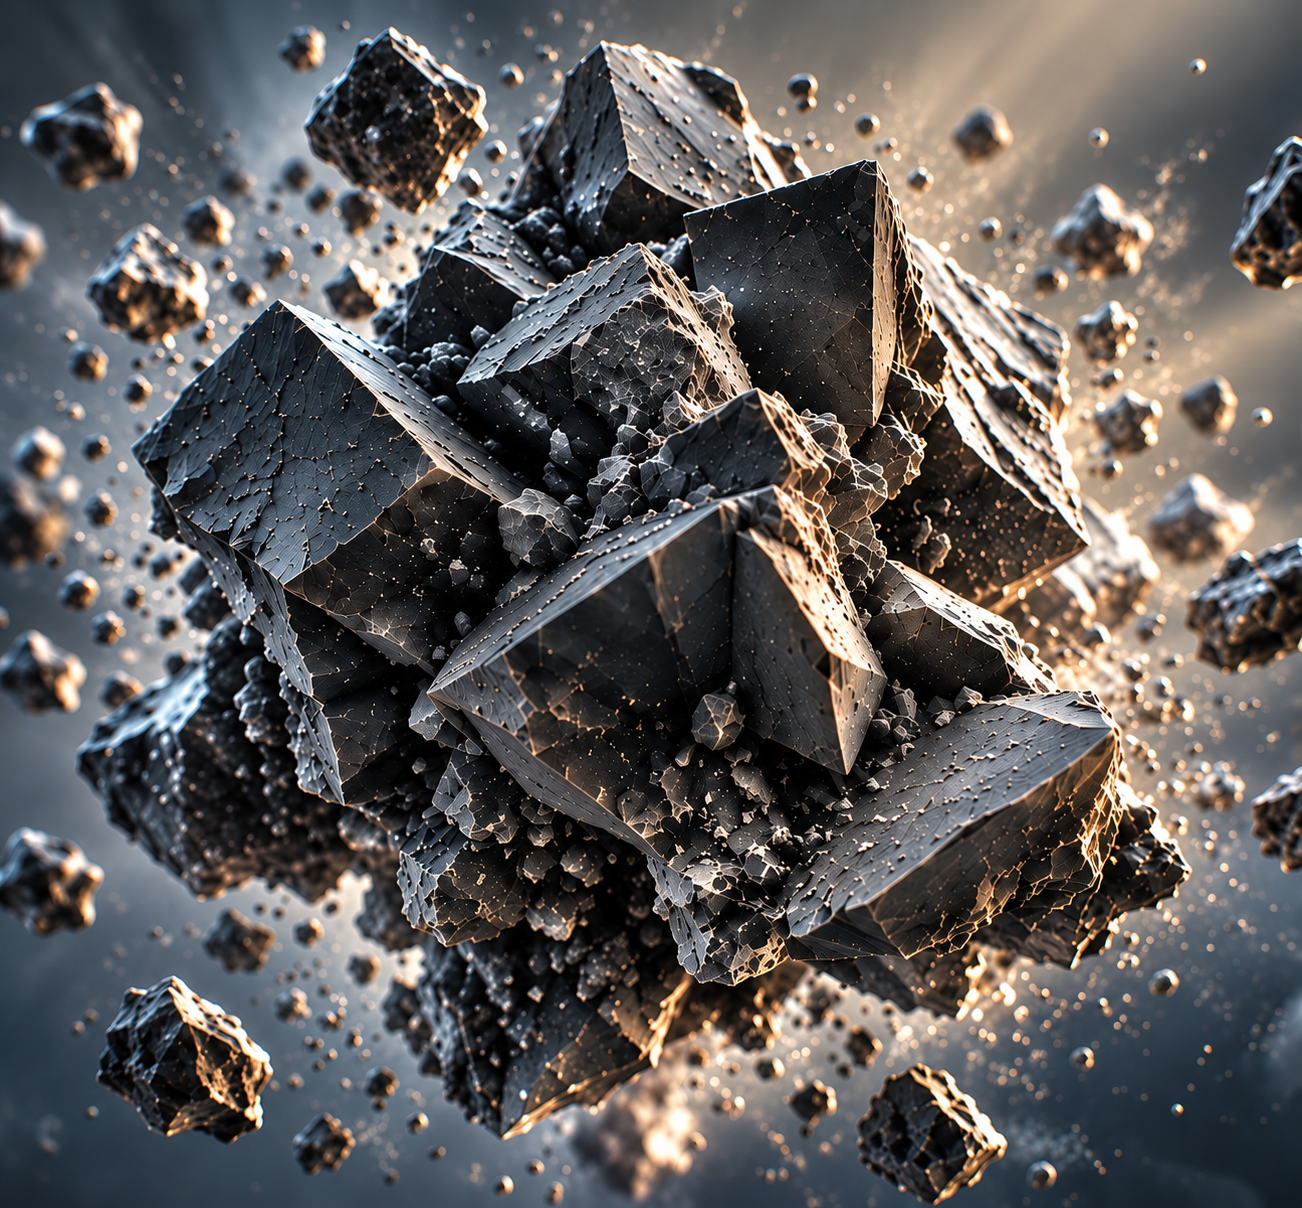
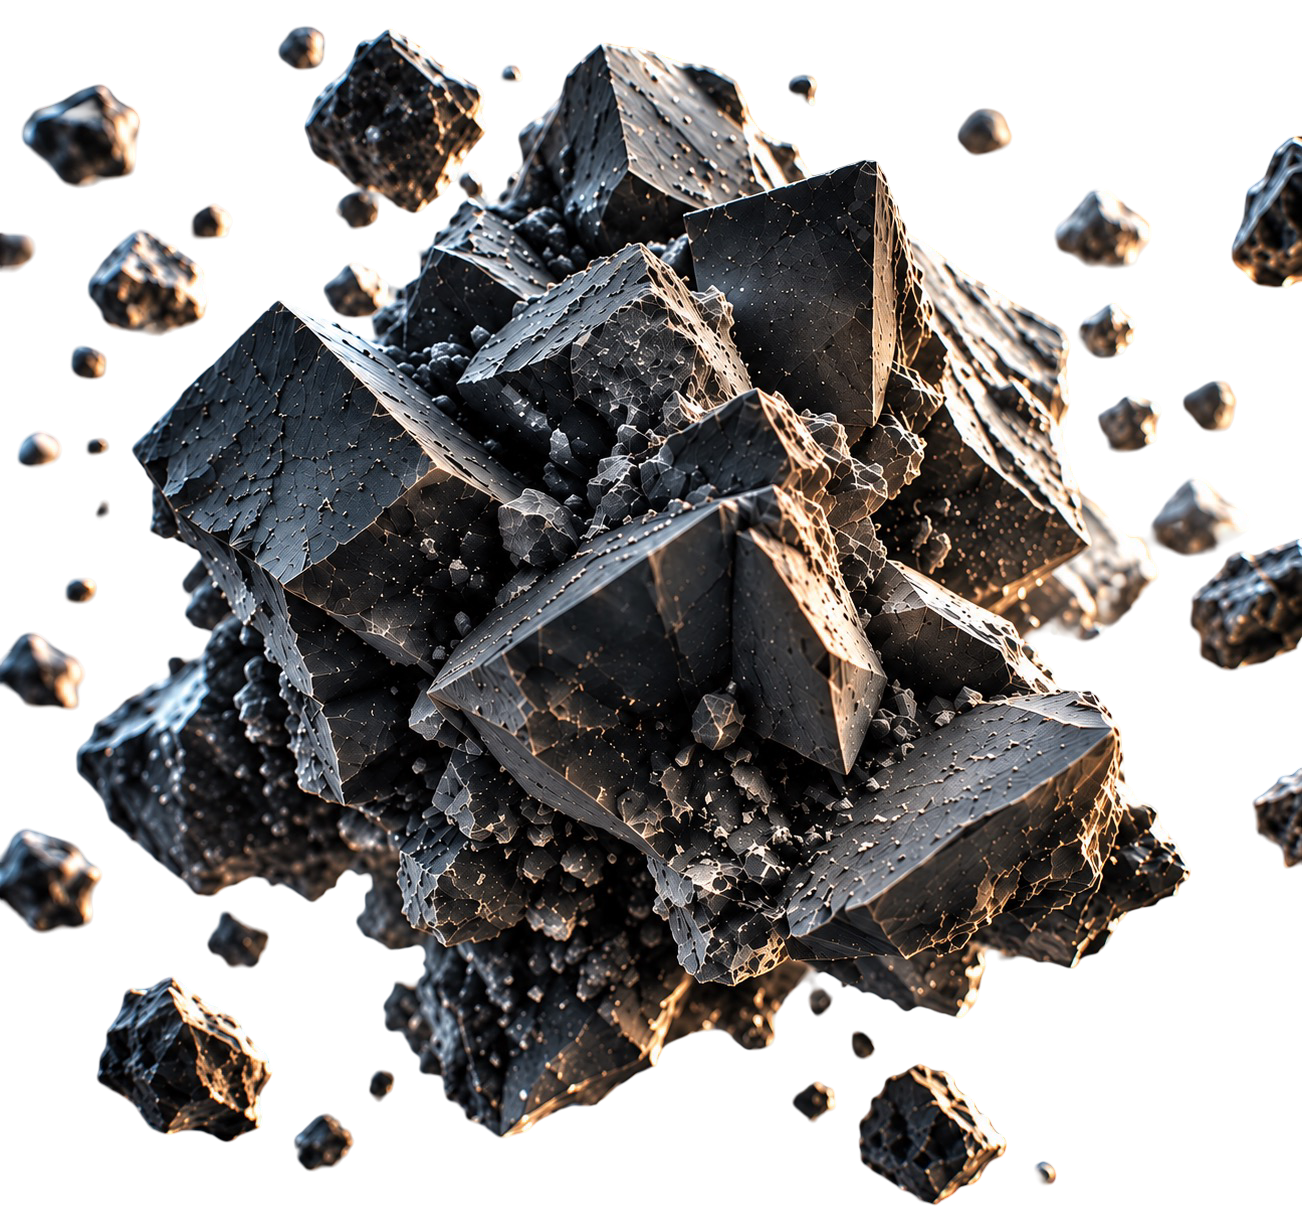
Restore silhouette particle system now that the texture has real alpha; rework hero atmosphere
home-material-crystal.png now ships as genuine RGBA (confirmed via PNG
IHDR: color type 6, ~42% transparent, ~6% soft edge) instead of the
alpha-less RGB file from the initial upload, pulled in from origin/main.

- Remove the CSS mask-image stopgap on the canvas — the shader's own
  alpha-discard cutout and sampleSilhouetteAnchors's edge detection do the
  real job now; verified live that both particle bands render.
- Strengthen the page background and glow to read as atmospheric now that
  the object sits on true transparency instead of a masked rectangle: add
  a diagonal warm light-leak layer to .home-page's background gradient and
  enlarge/brighten .home-page__glow, shifted toward the top-right corner to
  match Main Object.png's off-frame warm light source.
- Drop the now-stale "no alpha channel" comment on the silhouette cutoff
  constants.
- Update CLAUDE.md to reflect the asset's history (shipped without alpha,
  then fixed) and the current state of the particle system and atmosphere.

Claude-Session: https://claude.ai/code/session_01YBpenyrwyM537N8ZjKQNLn

diff --git a/src/pages/home-page.css b/src/pages/home-page.css
@@ -2,8 +2,9 @@
   --ink: #f2efe6;
   --muted: #97a0a6;
   background:
-    radial-gradient(circle at 72% 29%, rgba(255, 200, 135, 0.13) 0%, transparent 40%),
-    linear-gradient(165deg, #030405 0%, #07090c 48%, #0d1116 100%);
+    linear-gradient(128deg, transparent 38%, rgba(255, 196, 130, 0.09) 54%, transparent 74%),
+    radial-gradient(circle at 74% 24%, rgba(255, 202, 138, 0.28) 0%, rgba(255, 190, 120, 0.1) 34%, transparent 58%),
+    linear-gradient(165deg, #030405 0%, #07090c 46%, #0d1116 100%);
   color: var(--ink);
   min-height: 100svh;
   overflow: hidden;
@@ -21,15 +22,15 @@
 }
 
 .home-page__glow {
-  background: radial-gradient(circle, rgba(255, 197, 138, 0.22), transparent 62%);
-  filter: blur(2.5rem);
-  height: 46%;
+  background: radial-gradient(circle, rgba(255, 197, 138, 0.34), rgba(255, 197, 138, 0.09) 45%, transparent 68%);
+  filter: blur(3.2rem);
+  height: 58%;
   mix-blend-mode: screen;
   pointer-events: none;
   position: absolute;
-  right: 6%;
-  top: 4%;
-  width: 40%;
+  right: 2%;
+  top: -2%;
+  width: 46%;
   z-index: 1;
 }
 

diff --git a/src/experience/HomeMaterialField.tsx b/src/experience/HomeMaterialField.tsx
@@ -14,13 +14,9 @@ const CAMERA_INTRO_OFFSET = 2.6
 const DAMP_LAMBDA = 4
 
 // Cutout tuning for the silhouette plane/particle pipeline. Move
-// PLANE_ALPHA_DISCARD down / SILHOUETTE_ALPHA_MIN down if a real silhouette
+// PLANE_ALPHA_DISCARD down / SILHOUETTE_ALPHA_MIN down if the silhouette
 // texture shows a transparent fringe at its edge; move them up if the edge
-// looks eaten into the object. NOTE: home-material-crystal.png currently has
-// no alpha channel at all (confirmed 8-bit RGB) - every sampled alpha reads
-// as opaque, so the discard never fires and sampleSilhouetteAnchors finds no
-// edge anchors (see the CSS mask-image fallback in home-material-field.css
-// and the CLAUDE.md note on this).
+// looks eaten into the object.
 const PLANE_ALPHA_DISCARD = 0.03
 const SILHOUETTE_ALPHA_MIN = 140
 const SILHOUETTE_NEIGHBOR_MAX = 60

diff --git a/src/experience/home-material-field.css b/src/experience/home-material-field.css
@@ -1,17 +1,9 @@
 .home-material-field { height: 100%; pointer-events: none; width: 100%; }
 
-/*
- * home-material-crystal.png has no alpha channel (confirmed: 8-bit RGB), so
- * the shader's alpha-discard cutout never fires and the plane would
- * otherwise render as a hard-edged rectangle. This mask fades the canvas's
- * own rectangular edges into the page background as a stand-in for a real
- * silhouette cutout. Remove once the asset ships with genuine alpha.
- */
 .home-material-field canvas {
   display: block;
   filter: drop-shadow(0 0 3.4rem rgba(255, 197, 138, 0.14)) drop-shadow(0 1.6rem 2.2rem rgba(0, 0, 0, 0.55));
   height: 100% !important;
-  mask-image: radial-gradient(ellipse 62% 62% at 50% 50%, #000 55%, transparent 100%);
   outline: none;
   width: 100% !important;
 }

diff --git a/CLAUDE.md b/CLAUDE.md
@@ -38,31 +38,27 @@ unify these into one theme — this split is intentional.
   "improve", redraw, or simplify this image** — treat its color and
   micro-detail as ground truth.
 
-  **Critical, now-verified finding: this file has no alpha channel.**
-  Confirmed via `file`: `1302x1208, 8-bit/color RGB` — not RGBA. It is a
-  full-frame render with its own baked-in dark/vignette background, not an
-  isolated cutout on transparency, despite what earlier passes assumed
-  ("isolated, on a transparent background") without ever having looked at
-  it. Concrete effects on the existing pipeline, both now confirmed live in
-  a browser:
-  1. `materialFragmentShader`'s `if (tex.a < PLANE_ALPHA_DISCARD) discard;`
-     never fires — every sampled alpha is 1.0 — so the plane renders as a
-     full rectangle, not a silhouette cutout.
-  2. `sampleSilhouetteAnchors` looks for pixels near an alpha *edge*
-     (opaque neighbor next to a near-transparent one). With alpha uniformly
-     255 there is no edge anywhere, so it returns `[]`, both `FragmentField`
-     instances get zero anchors, and the entire far/near debris-particle
-     system is a no-op with this asset — not a tuning problem, a structural
-     one.
-  Mitigation applied this pass (see `home-material-field.css`): a CSS
-  `mask-image` radial gradient on the `<canvas>` element fades the plane's
-  rectangular edges into the page background, standing in for the missing
-  silhouette cutout. It's a compositing-layer approximation, not a fix —
-  it does not restore the particle system. A real fix needs either a new
-  export of this asset with genuine alpha, or a product decision to accept
-  the plane as a full-frame image (in which case the particle-anchor code
-  and its named constants become dead weight worth removing deliberately,
-  not something to leave half-wired).
+  **Asset history: this file shipped twice.** The first version (checked in
+  with the initial upload) had no alpha channel at all (`8-bit/color RGB`,
+  confirmed via `file`) despite being described as "isolated on a
+  transparent background" — a real, structural bug: the shader's
+  `if (tex.a < PLANE_ALPHA_DISCARD) discard;` never fired (every sampled
+  alpha read 1.0) and `sampleSilhouetteAnchors` found zero edge anchors, so
+  the plane rendered as a hard rectangle and the entire far/near
+  debris-particle system was a no-op. A CSS `mask-image` on the `<canvas>`
+  was added as a stopgap to fade the rectangular edges.
+
+  **Now fixed at the asset level.** The current file is genuine RGBA
+  (confirmed via PNG IHDR: color type 6; `~42%` of pixels fully transparent,
+  `~6%` soft/anti-aliased edge, `~52%` fully opaque — a real cutout, not
+  alpha=255-everywhere masquerading as RGBA). It also already has debris
+  chunks baked in near the main cluster's own silhouette. The `mask-image`
+  stopgap has been removed from `home-material-field.css` — the shader's
+  own alpha-discard cutout and `sampleSilhouetteAnchors`'s edge detection
+  now do the real job, verified live (Playwright screenshots + crops show
+  small warm-tinted instanced particles distinct from the texture's own
+  baked debris, at both far and near bands, with no double-layer clutter at
+  the current `FAR_BAND`/`NEAR_BAND` values — left untouched).
 - **`Main Object.png`** (full-page composite, confirmed via inspection:
   1586×992, RGB, no alpha channel) — a **composition reference only**. Shows
   the whole intended Home page: header, nav, headline, the object in
@@ -114,10 +110,11 @@ fix (no overlap) rather than a calibrated one — revisit if a mobile
 composite reference shows up.
 
 Particle bands (`FAR_BAND`/`NEAR_BAND`): left at their original (pre-cut)
-values, unchanged this pass. Since `home-material-crystal.png` has no alpha
-channel, both bands currently render zero particles regardless of these
-values (see the Assets section above) — there's nothing to visually tune
-until the alpha-channel problem is resolved one way or the other.
+values. Now that the real-alpha asset is in and the particle system is
+live, checked visually (screenshots + crops) for the double-debris-layer
+risk flagged in an earlier pass (texture's own baked debris plus the
+instanced particles) — reads as complementary (small soft warm dots) not
+duplicative, so left unchanged.
 
 ## Resolved (this pass — verified against actual code, not assumed)
 
@@ -170,6 +167,18 @@ until the alpha-channel problem is resolved one way or the other.
 - **Aspect ratio / scale already asset-agnostic — nothing to change.**
   `useContainScale` derives the plane's width/height from
   `image.width / image.height` at runtime.
+- **Silhouette particle system restored.** `home-material-crystal.png` now
+  ships with real alpha (see Assets section); removed the `mask-image`
+  stopgap from `home-material-field.css` and confirmed live that
+  `sampleSilhouetteAnchors` finds real edge anchors and both `FragmentField`
+  bands render.
+- **Background atmosphere strengthened to match `Main Object.png`.** Now
+  that the object sits on true transparency instead of a masked rectangle,
+  the page background reads directly around/behind it. Added a diagonal
+  warm light-leak layer to `.home-page`'s background and enlarged/
+  intensified `.home-page__glow` (wider, more blurred, brighter core,
+  shifted toward the top-right corner) to match the reference's warm
+  upper-right light source. See Design Tokens below for the current values.
 
 ## Motion System
 
@@ -204,8 +213,16 @@ from the other three groups.
   --ink: #f2efe6;
   --muted: #97a0a6;
   background:
-    radial-gradient(circle at 72% 29%, rgba(255, 200, 135, 0.13) 0%, transparent 40%),
-    linear-gradient(165deg, #030405 0%, #07090c 48%, #0d1116 100%);
+    linear-gradient(128deg, transparent 38%, rgba(255, 196, 130, 0.09) 54%, transparent 74%),
+    radial-gradient(circle at 74% 24%, rgba(255, 202, 138, 0.28) 0%, rgba(255, 190, 120, 0.1) 34%, transparent 58%),
+    linear-gradient(165deg, #030405 0%, #07090c 46%, #0d1116 100%);
+}
+
+.home-page__glow {
+  background: radial-gradient(circle, rgba(255, 197, 138, 0.34), rgba(255, 197, 138, 0.09) 45%, transparent 68%);
+  /* enlarged + shifted toward the top-right corner vs. the original
+     circle/40%/right:6%/top:4% — matches Main Object.png's off-frame
+     warm light source better than a centered blob */
 }
 ```
 
@@ -234,18 +251,15 @@ material area repositioned (see Position Calibration), copy max-width
 Textured plane (not a rotatable mesh) from `home-material-crystal.png`:
 fbm vertex displacement, fake-normal two-light fragment shading,
 silhouette-sampled instanced fragment particles (far/near bands) with
-independent noise-driven drift and warm/cool-modulated tint — currently
-inert, see the Assets section on the missing alpha channel. A CSS
-`mask-image` on the `<canvas>` (in `home-material-field.css`) fades the
-plane's rectangular edges as a stand-in for the missing cutout.
+independent noise-driven drift and warm/cool-modulated tint — live and
+confirmed working now that the texture has real alpha (see Assets section).
 `IntersectionObserver` pauses the render loop off-screen.
 `prefers-reduced-motion` swaps to a static `<img>` one level up in
-`HomePage.tsx` (note: the CSS mask is on the canvas only, so the reduced-
-motion `<img>` fallback shows the full rectangular image without it — this
-is consistent since a static fallback has no camera framing to blend into
-context in the first place, but worth knowing before assuming visual parity
-between the two modes). Don't introduce `@react-three/postprocessing` — the
-current shader-side techniques already fake DoF/bloom cheaper.
+`HomePage.tsx`; since the texture itself is now a real cutout, the static
+fallback and the WebGL plane look consistent (same transparent background
+showing through either way). Don't introduce
+`@react-three/postprocessing` — the current shader-side techniques already
+fake DoF/bloom cheaper.
 
 ## Conventions
 
@@ -271,20 +285,13 @@ current shader-side techniques already fake DoF/bloom cheaper.
 4. `filter: drop-shadow(...)` on `<canvas>` — potential perf cost, unverified.
 5. `sampleSilhouetteAnchors`'s `getImageData` CORS caveat if asset pipeline
    moves off same-origin.
-6. **`home-material-crystal.png` has no alpha channel** — the silhouette
-   particle system is structurally inert (see Assets section). Needs either
-   a re-export of the asset with real alpha, or a deliberate decision to
-   drop the particle-anchor code and keep the full-frame-plane + CSS-mask
-   look. Currently the code is left wired and harmless (degrades to zero
-   particles) rather than ripped out, since which asset ships next is a
-   product call, not a code call.
-7. `home-motion-reference.mov` is an unused, undocumented asset — confirm
+6. `home-motion-reference.mov` is an unused, undocumented asset — confirm
    its purpose before relying on it or deleting it.
-8. Position Calibration insets (`left:42% right:6% top:6% bottom:18svh`)
+7. Position Calibration insets (`left:42% right:6% top:6% bottom:18svh`)
    are verified against the *current* copy column width — revisit if copy
    length/sizing changes.
 
-## Definition of Done (this pass)
+## Definition of Done
 
 - [x] Broken `global.css` import removed; dev server starts cleanly.
 - [x] Home nav uses `Link`/`react-router`, verified client-side routing.
@@ -295,9 +302,11 @@ current shader-side techniques already fake DoF/bloom cheaper.
 - [x] Position calibration verified live (Playwright + DOM measurement);
       desktop headline/object collision fixed; mobile headline/object
       overlap bug found and fixed.
+- [x] Real alpha-channel silhouette texture shipped; `mask-image` stopgap
+      removed; particle system confirmed live.
+- [x] Background/glow atmosphere reworked to match `Main Object.png`'s
+      warm upper-right light source now that the plane is a true cutout.
 - [x] Typecheck (`tsc -b --noEmit`) clean; dev server smoke-tested with
       Playwright at desktop/tablet/mobile widths and with
       `prefers-reduced-motion: reduce`; no console/page errors.
-- [ ] Real alpha-channel silhouette texture — asset-level, not code-level;
-      see Outstanding #6.
 - [ ] Category icons, menu toggle, category routing — untouched this pass.
